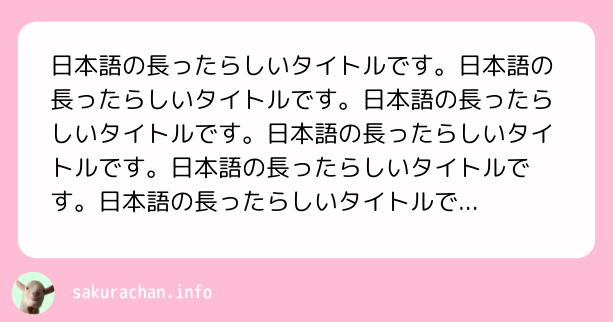
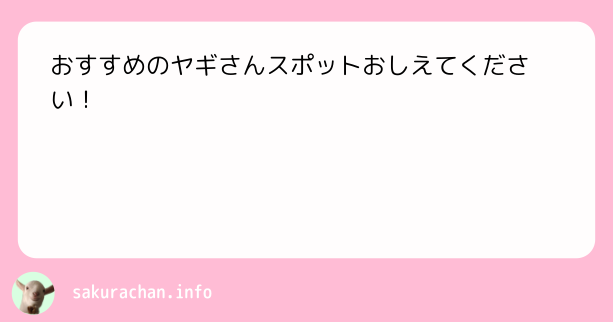
Add Q1

diff --git a/docs/answer/q1/index.html b/docs/answer/q1/index.html
@@ -4,9 +4,9 @@
     <meta charset="utf-8">
     <meta http-equiv="X-UA-Compatible" content="IE=edge,chrome=1">
     
-    <title>日本語の長ったらしいタイトルです。日本語の長ったらしいタイトルです。日本語の長ったらしいタイトルです。日本語の長ったらしいタイトルです。日本語の長ったらしいタイトルです。日本語の長ったらしいタイトルです。日本語の長ったらしいタイトルです。日本語の長ったらしいタイトルです。 | さくらちゃんぼっくす</title>
+    <title>おすすめのヤギさんスポットおしえてください！ | さくらちゃんぼっくす</title>
     <meta name="viewport" content="width=device-width,minimum-scale=1">
-    <meta name="description" content="テスト">
+    <meta name="description" content="関東と関西にわけてお">
     <meta name="generator" content="Hugo 0.101.0" />
     
     
@@ -33,20 +33,20 @@
 
     
     
-    <meta property="og:title" content="日本語の長ったらしいタイトルです。日本語の長ったらしいタイトルです。日本語の長ったらしいタイトルです。日本語の長ったらしいタイトルです。日本語の長ったらしいタイトルです。日本語の長ったらしいタイトルです。日本語の長ったらしいタイトルです。日本語の長ったらしいタイトルです。" />
-<meta property="og:description" content="テスト" />
+    <meta property="og:title" content="おすすめのヤギさんスポットおしえてください！" />
+<meta property="og:description" content="関東と関西にわけてお" />
 <meta property="og:type" content="article" />
 <meta property="og:url" content="https://sakurachan.info/qbox/answer/q1/" /><meta property="article:section" content="answer" />
-<meta property="article:published_time" content="2022-07-18T20:07:03+09:00" />
-<meta property="article:modified_time" content="2022-07-18T20:07:03+09:00" />
+<meta property="article:published_time" content="2022-07-18T17:01:37+00:00" />
+<meta property="article:modified_time" content="2022-07-18T17:01:37+00:00" />
 
-<meta itemprop="name" content="日本語の長ったらしいタイトルです。日本語の長ったらしいタイトルです。日本語の長ったらしいタイトルです。日本語の長ったらしいタイトルです。日本語の長ったらしいタイトルです。日本語の長ったらしいタイトルです。日本語の長ったらしいタイトルです。日本語の長ったらしいタイトルです。">
-<meta itemprop="description" content="テスト"><meta itemprop="datePublished" content="2022-07-18T20:07:03+09:00" />
-<meta itemprop="dateModified" content="2022-07-18T20:07:03+09:00" />
-<meta itemprop="wordCount" content="3">
-<meta itemprop="keywords" content="foo,bar," /><meta name="twitter:card" content="summary"/>
-<meta name="twitter:title" content="日本語の長ったらしいタイトルです。日本語の長ったらしいタイトルです。日本語の長ったらしいタイトルです。日本語の長ったらしいタイトルです。日本語の長ったらしいタイトルです。日本語の長ったらしいタイトルです。日本語の長ったらしいタイトルです。日本語の長ったらしいタイトルです。"/>
-<meta name="twitter:description" content="テスト"/>
+<meta itemprop="name" content="おすすめのヤギさんスポットおしえてください！">
+<meta itemprop="description" content="関東と関西にわけてお"><meta itemprop="datePublished" content="2022-07-18T17:01:37+00:00" />
+<meta itemprop="dateModified" content="2022-07-18T17:01:37+00:00" />
+<meta itemprop="wordCount" content="1108">
+<meta itemprop="keywords" content="ヤギ," /><meta name="twitter:card" content="summary"/>
+<meta name="twitter:title" content="おすすめのヤギさんスポットおしえてください！"/>
+<meta name="twitter:description" content="関東と関西にわけてお"/>
 
       
     
@@ -59,7 +59,7 @@
           <meta property="og:image:url" content="https://sakurachan.info/qbox/img/q1.png">
           <meta name="twitter:card" content="summary_large_image">
           <meta name="twitter:app:name:iphone" content="さくらちゃんぼっくす">
-          <meta property="twitter:title" content="日本語の長ったらしいタイトルです。日本語の長ったらしいタイトルです。日本語の長ったらしいタイトルです。日本語の長ったらしいタイトルです。日本語の長ったらしいタイトルです。日本語の長ったらしいタイトルです。日本語の長ったらしいタイトルです。日本語の長ったらしいタイトルです。">
+          <meta property="twitter:title" content="おすすめのヤギさんスポットおしえてください！">
           <meta property="twitter:description" content="質問箱みたいなやつだよ">
         
       
@@ -127,20 +127,62 @@
     <header class="mt4 w-100">
       
       
-      <h1 class="custom--title f4 athelas mt3 mb1">日本語の長ったらしいタイトルです。日本語の長ったらしいタイトルです。日本語の長ったらしいタイトルです。日本語の長ったらしいタイトルです。日本語の長ったらしいタイトルです。日本語の長ったらしいタイトルです。日本語の長ったらしいタイトルです。日本語の長ったらしいタイトルです。</h1>
+      <h1 class="custom--title f4 athelas mt3 mb1">おすすめのヤギさんスポットおしえてください！</h1>
       
       
       
-      <time style="display: none;" class="f6 mv4 dib tracked" datetime="2022-07-18T20:07:03+09:00">7月 18, 2022</time>
+      <time style="display: none;" class="f6 mv4 dib tracked" datetime="2022-07-18T17:01:37Z">7月 18, 2022</time>
       
 
       
       
     </header>
-    <div class="nested-copy-line-height lh-copy serif f4 nested-links mid-gray pr4-l w-two-thirds-l"><p>テスト</p>
+    <div class="nested-copy-line-height lh-copy serif f4 nested-links mid-gray pr4-l w-two-thirds-l"><p>関東と関西にわけてお答えします。</p>
+<h1 id="関東部門">関東部門</h1>
+<h2 id="板橋こども動物園">板橋こども動物園</h2>
+<p>さくらちゃんがヤギの道に本格的に目覚めるきっかけとなったヤギスポットです。
+当時は個人事業主になったばかりで、板橋区役所に書類を出しに行っていました。その近くにあったのがこの動物園です。</p>
+<p>ヤギさん・ヒツジさんの他にもお馬さんや鹿さん、モルモットさんがいます。
+無料でヤギさんにおやつをあげられます。さくらちゃんはこれでヤギさんにハマりました。</p>
+<p>最近リニューアルしたそうで、より一層よくなったようです。
+関東に行く機会があったらまた行ってみたいです。</p>
+<p><a href="https://www.city.itabashi.tokyo.jp/bousai/kouen/kouen/doubutsuen/1006627.html">板橋区のサイト</a></p>
+<h2 id="羽村市動物公園">羽村市動物公園</h2>
+<p>動物との距離が近い動物園です。
+たしか、ヤギさんの角の間をかくためのブラシが置いてあった記憶があります。</p>
+<p>5年くらい前に行ったきりで久しぶりに公式サイトを見てみたら、「ヒノトントンZOO」という名前になっていました。</p>
+<p><a href="https://hamurazoo.jp/">公式サイト</a></p>
+<h2 id="埼玉県こども動物自然公園">埼玉県こども動物自然公園</h2>
+<p>日本で唯一クオッカちゃんがいる動物園です。
+ヤギさんコーナーも充実していました。</p>
+<p><a href="https://www.parks.or.jp/sczoo/">公式サイト</a></p>
+<h2 id="さいたま市大崎公園子供動物園">さいたま市大崎公園子供動物園</h2>
+<p>さくらちゃん（実ヤギ）を飼っていた家から自転車で20分ほどのところにあった公園です。
+さくらちゃん（実ヤギ）を飼いはじめる前はよく通っていました。
+ここの公園に問い合わせて、ヤギさんを診てくれる獣医さんを紹介してもらいました。</p>
+<p>なお、これからヤギさんを飼う方はご自身の地域のNOSAIに問い合わせると獣医さんを紹介してもらえるそうです。</p>
+<p><a href="https://www.sgp.or.jp/osaki">さいたま公園ナビ</a></p>
+<h1 id="関西部門">関西部門</h1>
+<h2 id="六甲山牧場">六甲山牧場</h2>
+<p>ヒツジさんが放牧されています。ヤギさんは柵の中で暮らしています。
+柵の中に入って遊べるタイプのところではありませんが、柵ごしにおやつをあげたり痒いところをかいてあげることができます。</p>
+<p>なんといっても珍しいのがアンゴラヤギさんです。
+ふわっふわのヤギさんがいます。</p>
+<p>さくらちゃんが大阪に来てしばらくした頃、ここで1日限定ハロウィーンイベントとして「ヤギさんのおさんぽ体験」が開催されることを当日の午前1時くらいに知り、参加してきました。アイリスちゃんという美少女ヤギさんが一緒におさんぽしてくれました。</p>
+<p><a href="https://rokkosan.jp/">公式サイト</a></p>
+<h2 id="タケガワふれあい動物園">タケガワふれあい動物園</h2>
+<p>三重県にある小さな動物園です。塗装会社の社長さんが「地域のこどもたちのために」と、塗装業の利益をつかって無料で運営しています。
+動物たちへの愛をとても感じられるすばらしい動物園です。
+子ヤギちゃんもめっちゃくちゃ人懐っこかったです。</p>
+<p><a href="https://takegawafureaizoo.stores.jp/">ファンサイト</a></p>
+<h2 id="オリエント牧場">オリエント牧場</h2>
+<p>大阪にあたらしいヤギスポットが誕生しました！
+なんとやぎやぎショーも開催しているそうです。</p>
+<p>さくらちゃんはまだ行ったことがないですが、すご〜く良さそうなヤギスポットができて嬉しいです🌸</p>
+<p><a href="https://oriboku.com/">公式サイト</a></p>
 <div class="custom--postCommon">
         <div class="custom--postCommon_wrapper">
-          <a class="custom--postCommon_button-share" href="https://twitter.com/share?url=https%3a%2f%2fsakurachan.info%2fqbox%2fanswer%2fq1%2f&hashtags=さくらちゃんぼっくす&text=%e3%81%95%e3%81%8f%e3%82%89%e3%81%a1%e3%82%83%e3%82%93%e3%81%ae%e5%9b%9e%e7%ad%94%e3%82%92%e8%a6%8b%e3%81%a6%e3%81%bf%e3%82%88%e3%81%86%ef%bc%81%0a%0a%e3%83%86%e3%82%b9%e3%83%88...%0a" target="_blank">
+          <a class="custom--postCommon_button-share" href="https://twitter.com/share?url=https%3a%2f%2fsakurachan.info%2fqbox%2fanswer%2fq1%2f&hashtags=さくらちゃんぼっくす&text=%e3%81%95%e3%81%8f%e3%82%89%e3%81%a1%e3%82%83%e3%82%93%e3%81%ae%e5%9b%9e%e7%ad%94%e3%82%92%e8%a6%8b%e3%81%a6%e3%81%bf%e3%82%88%e3%81%86%ef%bc%81%0a%0a%e9%96%a2%e6%9d%b1%e3%81%a8%e9%96%a2%e8%a5%bf%e3%81%ab%e3%82%8f%e3%81%91%e3%81%a6%e3%81%8a...%0a" target="_blank">
             回答をTwitterでシェア
           </a>
         </div>
@@ -157,11 +199,7 @@
       </div><ul class="pa0">
   
    <li class="list di">
-     <a href="../../tags/foo" class="link f5 grow no-underline br-pill ba ph3 pv2 mb2 dib black sans-serif">foo</a>
-   </li>
-  
-   <li class="list di">
-     <a href="../../tags/bar" class="link f5 grow no-underline br-pill ba ph3 pv2 mb2 dib black sans-serif">bar</a>
+     <a href="../../tags/%E3%83%A4%E3%82%AE" class="link f5 grow no-underline br-pill ba ph3 pv2 mb2 dib black sans-serif">ヤギ</a>
    </li>
   
 </ul>

diff --git a/docs/index.html b/docs/index.html
@@ -149,60 +149,12 @@
       
       <div class="blah w-100">
         <h1 class="f3 fw1 athelas mt0 lh-title">
-          <a href="./answer/q2/" class="color-inherit dim link">
-            2日本語の長ったらしいタイトルです。日本語の長ったらしいタイトルです。
-            </a>
-        </h1>
-        <div class="f6 f5-l lh-copy nested-copy-line-height nested-links">
-          回答です。 そうです。
-        </div>
-          <a href="./answer/q2/" class="ba b--moon-gray bg-light-gray br2 color-inherit dib f7 hover-bg-moon-gray link mt2 ph2 pv1">もっと読む</a>
-        
-      </div>
-    </div>
-  </div>
-</article>
-
-          </div>
-        
-          <div class="relative w-100 mb4">
-            
-<article class="bb b--black-10">
-  <div class="db pv4 ph3 ph0-l no-underline dark-gray">
-    <div class="flex flex-column flex-row-ns">
-      
-      <div class="blah w-100">
-        <h1 class="f3 fw1 athelas mt0 lh-title">
-          <a href="./answer/q3/" class="color-inherit dim link">
-            3日本語の長ったらしいタイトルです。日本語の長ったらしいタイトルです。
-            </a>
-        </h1>
-        <div class="f6 f5-l lh-copy nested-copy-line-height nested-links">
-          回答です。 そうです。
-        </div>
-          <a href="./answer/q3/" class="ba b--moon-gray bg-light-gray br2 color-inherit dib f7 hover-bg-moon-gray link mt2 ph2 pv1">もっと読む</a>
-        
-      </div>
-    </div>
-  </div>
-</article>
-
-          </div>
-        
-          <div class="relative w-100 mb4">
-            
-<article class="bb b--black-10">
-  <div class="db pv4 ph3 ph0-l no-underline dark-gray">
-    <div class="flex flex-column flex-row-ns">
-      
-      <div class="blah w-100">
-        <h1 class="f3 fw1 athelas mt0 lh-title">
           <a href="./answer/q1/" class="color-inherit dim link">
-            日本語の長ったらしいタイトルです。日本語の長ったらしいタイトルです。日本語の長ったらしいタイトルです。日本語の長ったらしいタイトルです。日本語の長ったらしいタイトルです。日本語の長ったらしいタイトルです。日本語の長ったらしいタイトルです。日本語の長ったらしいタイトルです。
+            おすすめのヤギさんスポットおしえてください！
             </a>
         </h1>
         <div class="f6 f5-l lh-copy nested-copy-line-height nested-links">
-          テスト
+          関東と関西にわけてお
         </div>
           <a href="./answer/q1/" class="ba b--moon-gray bg-light-gray br2 color-inherit dib f7 hover-bg-moon-gray link mt2 ph2 pv1">もっと読む</a>
         

diff --git a/docs/answer/index.html b/docs/answer/index.html
@@ -124,46 +124,12 @@
   <div class="bg-white mb3 pa4 gray overflow-hidden">
     <span class="f6 db">Answers</span>
     <h1 class="f3 near-black">
-      <a href="../answer/q2/" class="link black dim">
-        2日本語の長ったらしいタイトルです。日本語の長ったらしいタイトルです。
-      </a>
-    </h1>
-    <div class="nested-links f5 lh-copy nested-copy-line-height">
-      回答です。 そうです。
-    </div>
-  </div>
-</div>
-
-        </div>
-      
-        <div class="relative w-100 w-30-l mb4 bg-white">
-          <div class="relative w-100 mb4 bg-white nested-copy-line-height">
-  <div class="bg-white mb3 pa4 gray overflow-hidden">
-    <span class="f6 db">Answers</span>
-    <h1 class="f3 near-black">
-      <a href="../answer/q3/" class="link black dim">
-        3日本語の長ったらしいタイトルです。日本語の長ったらしいタイトルです。
-      </a>
-    </h1>
-    <div class="nested-links f5 lh-copy nested-copy-line-height">
-      回答です。 そうです。
-    </div>
-  </div>
-</div>
-
-        </div>
-      
-        <div class="relative w-100 w-30-l mb4 bg-white">
-          <div class="relative w-100 mb4 bg-white nested-copy-line-height">
-  <div class="bg-white mb3 pa4 gray overflow-hidden">
-    <span class="f6 db">Answers</span>
-    <h1 class="f3 near-black">
       <a href="../answer/q1/" class="link black dim">
-        日本語の長ったらしいタイトルです。日本語の長ったらしいタイトルです。日本語の長ったらしいタイトルです。日本語の長ったらしいタイトルです。日本語の長ったらしいタイトルです。日本語の長ったらしいタイトルです。日本語の長ったらしいタイトルです。日本語の長ったらしいタイトルです。
+        おすすめのヤギさんスポットおしえてください！
       </a>
     </h1>
     <div class="nested-links f5 lh-copy nested-copy-line-height">
-      テスト
+      関東と関西にわけてお
     </div>
   </div>
 </div>

diff --git a/content/answer/q1.md b/content/answer/q1.md
@@ -1,8 +1,79 @@
 ---
-title: "日本語の長ったらしいタイトルです。日本語の長ったらしいタイトルです。日本語の長ったらしいタイトルです。日本語の長ったらしいタイトルです。日本語の長ったらしいタイトルです。日本語の長ったらしいタイトルです。日本語の長ったらしいタイトルです。日本語の長ったらしいタイトルです。"
-date: 2022-07-18T20:07:03+09:00
-tags: ["foo", "bar"]
-draft: false
+title: "おすすめのヤギさんスポットおしえてください！"
+date: 2022-07-18T17:01:37.713Z
+tags: ["ヤギ"]
 ---
 
-テスト
+関東と関西にわけてお答えします。
+
+# 関東部門
+
+## 板橋こども動物園
+
+さくらちゃんがヤギの道に本格的に目覚めるきっかけとなったヤギスポットです。
+当時は個人事業主になったばかりで、板橋区役所に書類を出しに行っていました。その近くにあったのがこの動物園です。
+
+ヤギさん・ヒツジさんの他にもお馬さんや鹿さん、モルモットさんがいます。
+無料でヤギさんにおやつをあげられます。さくらちゃんはこれでヤギさんにハマりました。
+
+最近リニューアルしたそうで、より一層よくなったようです。
+関東に行く機会があったらまた行ってみたいです。
+
+[板橋区のサイト](https://www.city.itabashi.tokyo.jp/bousai/kouen/kouen/doubutsuen/1006627.html)
+
+## 羽村市動物公園
+
+動物との距離が近い動物園です。
+たしか、ヤギさんの角の間をかくためのブラシが置いてあった記憶があります。
+
+5年くらい前に行ったきりで久しぶりに公式サイトを見てみたら、「ヒノトントンZOO」という名前になっていました。
+
+[公式サイト](https://hamurazoo.jp/)
+
+## 埼玉県こども動物自然公園
+
+日本で唯一クオッカちゃんがいる動物園です。
+ヤギさんコーナーも充実していました。
+
+[公式サイト](https://www.parks.or.jp/sczoo/)
+
+## さいたま市大崎公園子供動物園
+
+さくらちゃん（実ヤギ）を飼っていた家から自転車で20分ほどのところにあった公園です。
+さくらちゃん（実ヤギ）を飼いはじめる前はよく通っていました。
+ここの公園に問い合わせて、ヤギさんを診てくれる獣医さんを紹介してもらいました。
+
+なお、これからヤギさんを飼う方はご自身の地域のNOSAIに問い合わせると獣医さんを紹介してもらえるそうです。
+
+[さいたま公園ナビ](https://www.sgp.or.jp/osaki)
+
+# 関西部門
+
+## 六甲山牧場
+
+ヒツジさんが放牧されています。ヤギさんは柵の中で暮らしています。
+柵の中に入って遊べるタイプのところではありませんが、柵ごしにおやつをあげたり痒いところをかいてあげることができます。
+
+なんといっても珍しいのがアンゴラヤギさんです。
+ふわっふわのヤギさんがいます。
+
+さくらちゃんが大阪に来てしばらくした頃、ここで1日限定ハロウィーンイベントとして「ヤギさんのおさんぽ体験」が開催されることを当日の午前1時くらいに知り、参加してきました。アイリスちゃんという美少女ヤギさんが一緒におさんぽしてくれました。
+
+[公式サイト](https://rokkosan.jp/)
+
+## タケガワふれあい動物園
+
+三重県にある小さな動物園です。塗装会社の社長さんが「地域のこどもたちのために」と、塗装業の利益をつかって無料で運営しています。
+動物たちへの愛をとても感じられるすばらしい動物園です。
+子ヤギちゃんもめっちゃくちゃ人懐っこかったです。
+
+[ファンサイト](https://takegawafureaizoo.stores.jp/)
+
+## オリエント牧場
+
+大阪にあたらしいヤギスポットが誕生しました！
+なんとやぎやぎショーも開催しているそうです。
+
+さくらちゃんはまだ行ったことがないですが、すご〜く良さそうなヤギスポットができて嬉しいです🌸
+
+[公式サイト](https://oriboku.com/)
